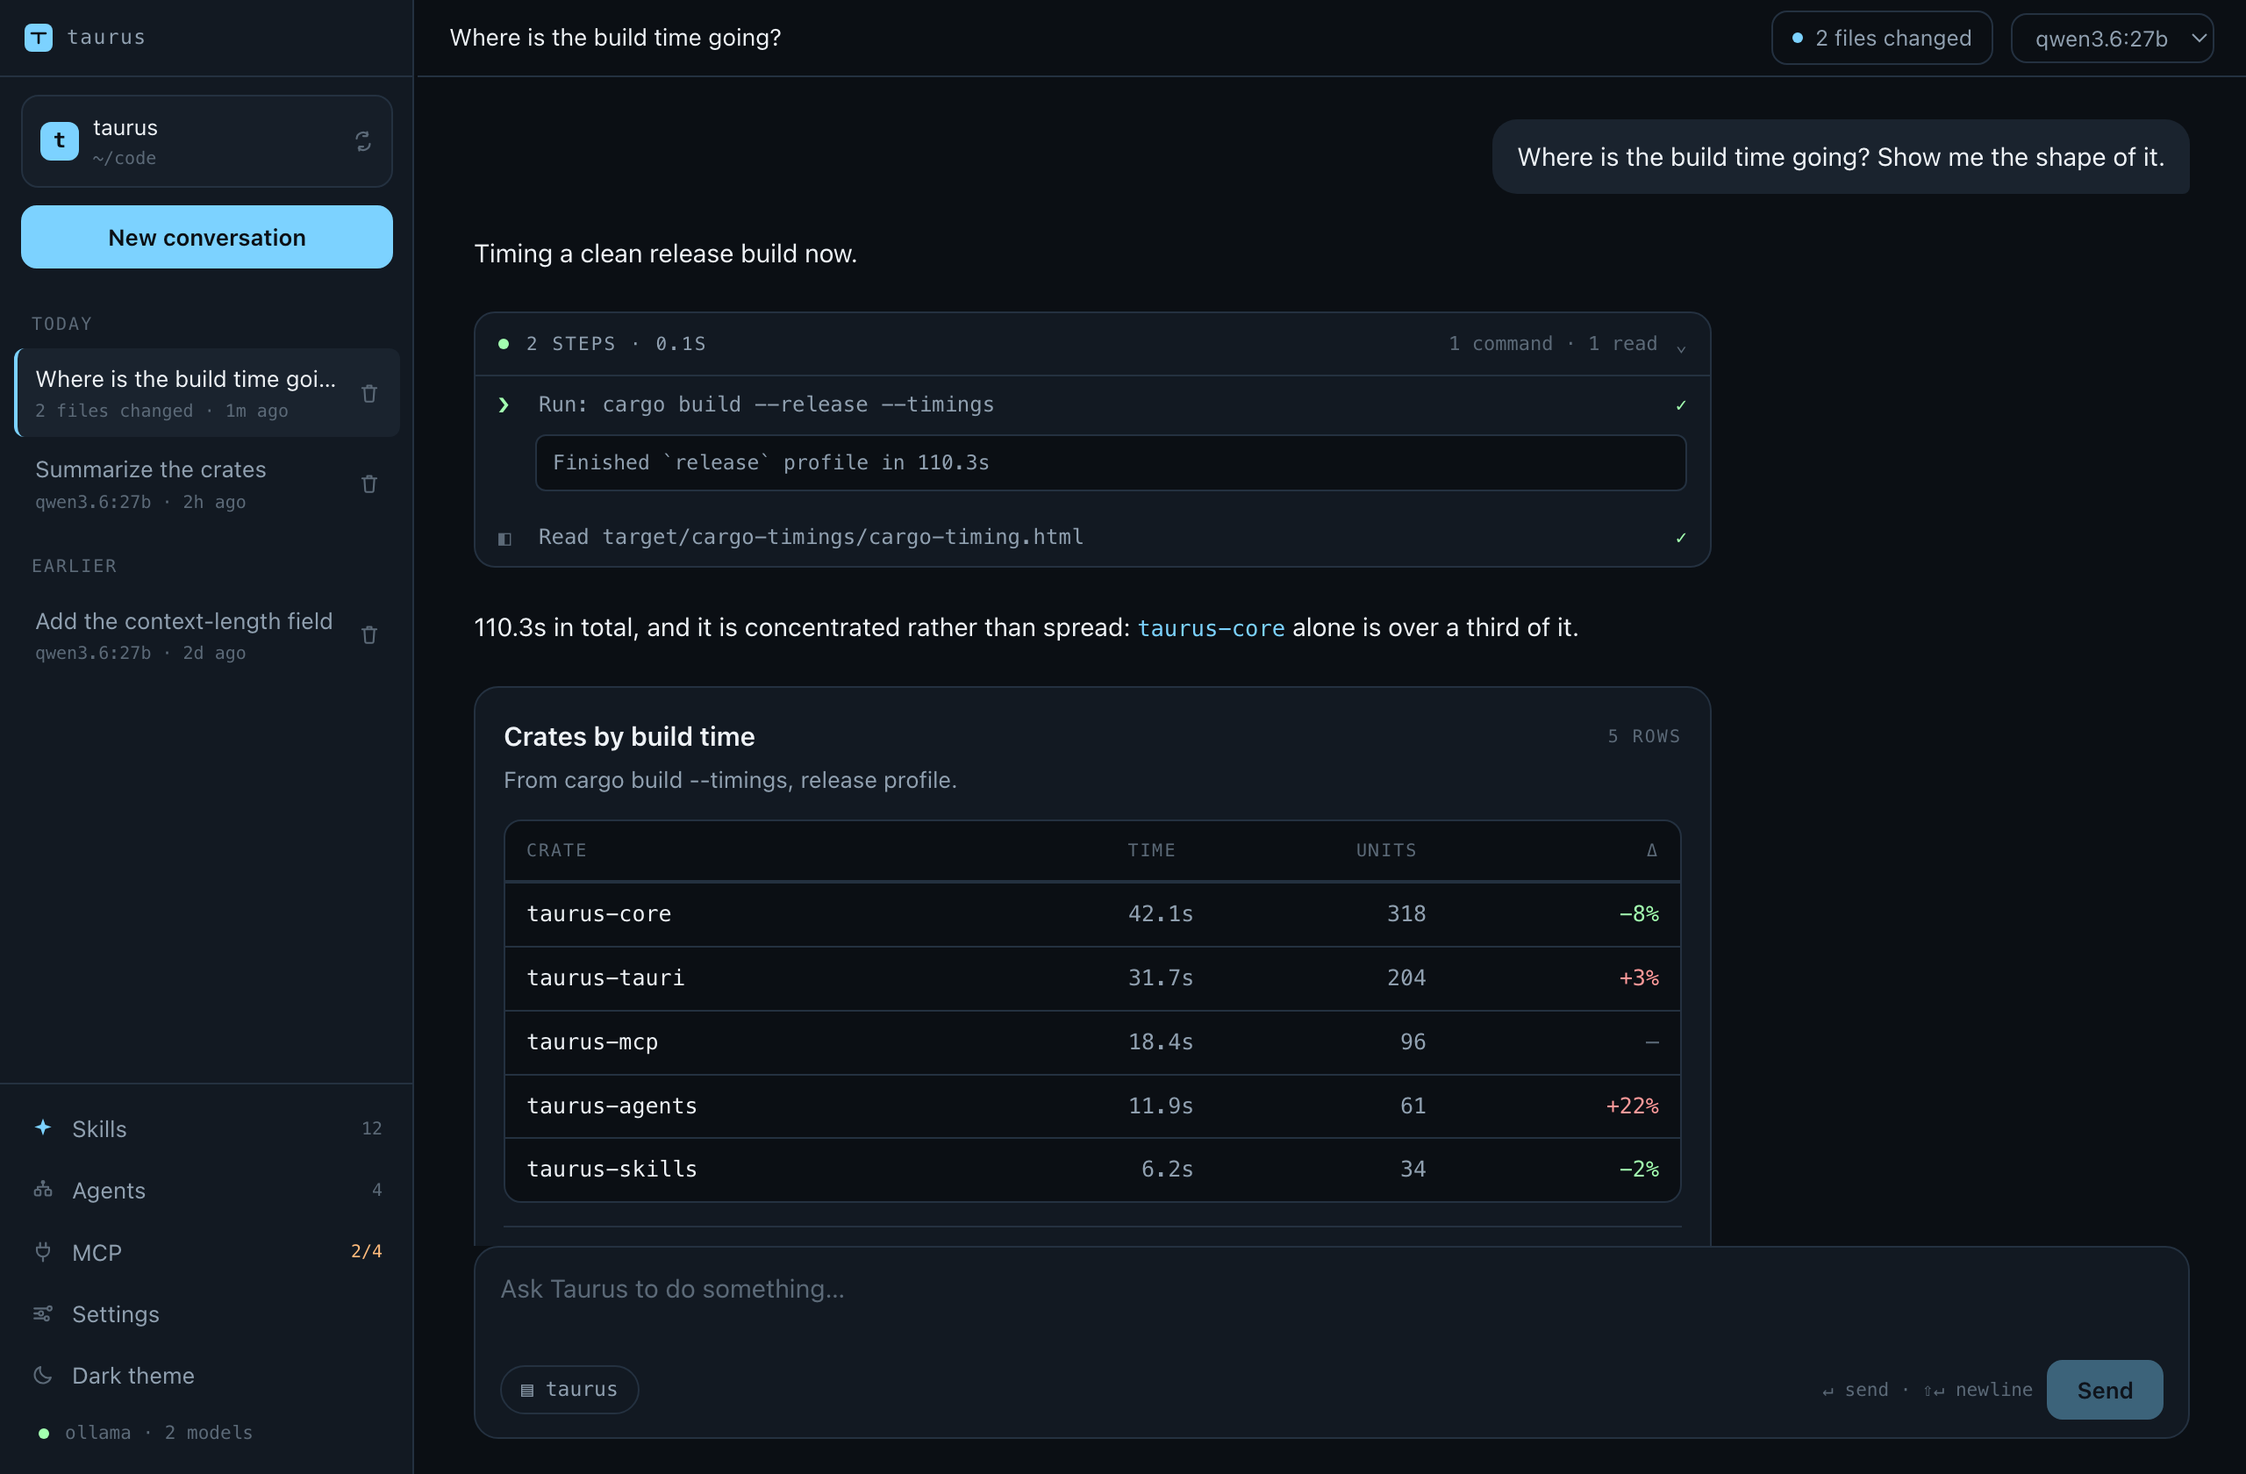
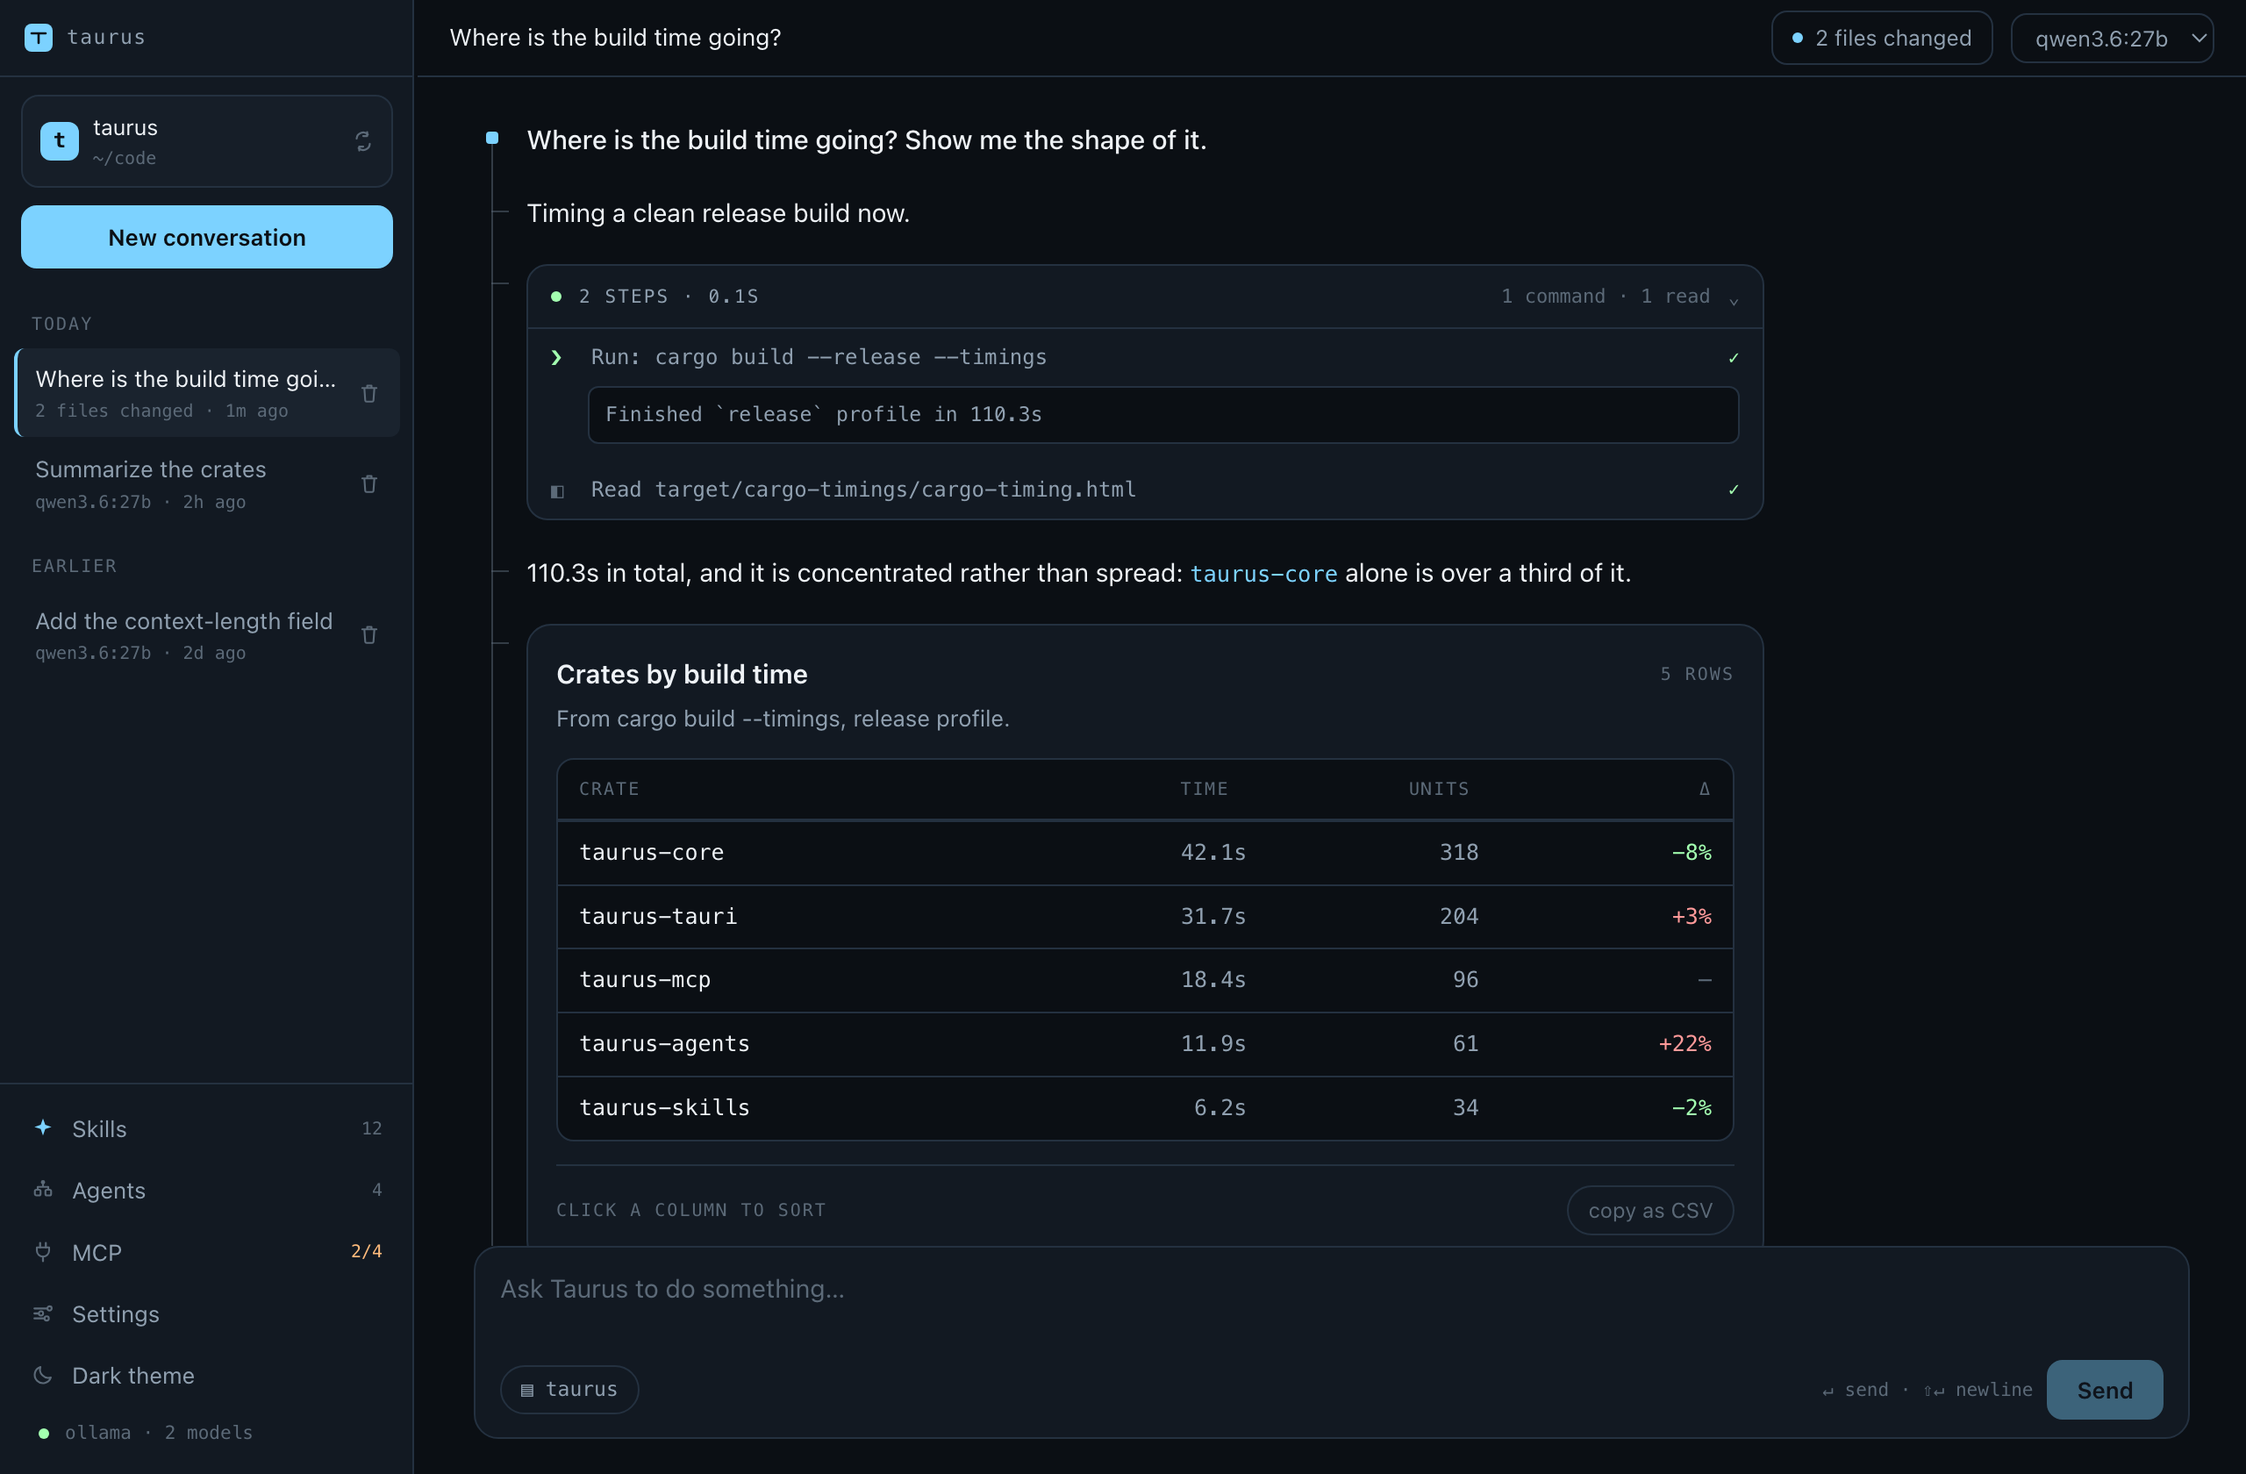
feat: thread a turn's steps onto one rail under the question
The question sat against the right margin and its answer against the
left, so the two halves of an exchange shared no edge and nothing
connected them — the eye had to cross the pane to pair a reply with what
had been asked. Everything below the question was flat besides: a
nine-step turn was ten siblings with equal claim on the page, and the
only way to find where one turn ended and the next began was to read for
it.

A turn is now the unit. `turns()` cuts the transcript on each question,
and the question heads a thread: one rail runs from its marker down past
everything it produced, with a segment tying each step to it. So the
answer is visibly the answer to *that*, a long turn stays one object
however many steps it took, and the shape of a conversation is legible
before any of it is read. Runs of tool calls are still folded — a run is
one step of the turn, and hangs one segment rather than one per call.

The question's marker is a node in the accent, the one colour nothing
else in the transcript uses, so a long conversation can be skimmed for
the places somebody asked something. Everything now shares one left edge
at one measure.

The thread gets its own token rather than borrowing `--rule`. `--rule`
marks where a surface ends and is read together with the edge it sits
on; this is a hairline across open background with nothing beside it to
give it away, and at `--rule` it disappeared on the light theme
[…]

diff --git a/src/components/Transcript.tsx b/src/components/Transcript.tsx
@@ -101,17 +101,118 @@ export function Transcript({
     );
   }
 
+  const conversation = turns(entries);
+
   return (
     <div className="transcript" ref={container}>
-      {group(entries).map((item) =>
+      {conversation.map((turn, i) => (
+        <TurnView
+          key={turn.prompt?.id ?? `preamble-${i}`}
+          turn={turn}
+          // Only ever the last one: the thing still being worked on is the
+          // question most recently asked, and the marker belongs on its rail
+          // rather than floating under the conversation as a whole.
+          working={busy && i === conversation.length - 1}
+          onAnswer={onAnswer}
+        />
+      ))}
+      <div ref={bottom} />
+    </div>
+  );
+}
+
+type UserEntry = Extract<Entry, { kind: "user" }>;
+
+/** One question and everything it caused, in the order it happened. */
+export type Turn = {
+  /**
+   * The message that began it.
+   *
+   * Null only for a conversation's preamble — the note a session opens with
+   * when its model has no native tool calling arrives before anybody has asked
+   * anything, and a rail hanging off nothing would say it belonged to a
+   * question that was never put.
+   */
+  prompt: UserEntry | null;
+  body: (Entry | ToolEntry[])[];
+};
+
+/**
+ * Cuts the transcript into turns.
+ *
+ * The unit the eye needs is the exchange, not the entry. Drawn as one flat
+ * column, a question and the six things that answered it are seven siblings
+ * with equal claim on the page, and the only way to find where a turn began is
+ * to read for it. Grouped, the question heads its own answer and the rail down
+ * the side says how far it reaches.
+ */
+export function turns(entries: Entry[]): Turn[] {
+  const out: { prompt: UserEntry | null; body: Entry[] }[] = [];
+  for (const entry of entries) {
+    if (entry.kind === "user") {
+      out.push({ prompt: entry, body: [] });
+    } else {
+      if (out.length === 0) out.push({ prompt: null, body: [] });
+      out[out.length - 1].body.push(entry);
+    }
+  }
+  // Runs of tool calls are folded per turn rather than across the transcript.
+  // They could not have spanned two anyway — a user message ends whatever was
+  // running — and folding here keeps the two groupings from having to agree.
+  return out.map(({ prompt, body }) => ({ prompt, body: group(body) }));
+}
+
+/**
+ * A turn, drawn as a thread.
+ *
+ * Everything the turn produced hangs off one rail that starts at the question,
+ * so the answer is visibly the answer *to that* — and a long turn stays one
+ * object on the page however many steps it took. The alternative, and what this
+ * replaced, was the question pinned to the right margin and its answer to the
+ * left, sharing no edge and connected by nothing.
+ */
+function TurnView({
+  turn,
+  working,
+  onAnswer,
+}: {
+  turn: Turn;
+  working: boolean;
+  onAnswer: (id: string, answers: Answer[]) => void;
+}) {
+  return (
+    <section className={`turn${turn.prompt ? "" : " unprompted"}`}>
+      {turn.prompt && <Prompt entry={turn.prompt} />}
+      {turn.body.map((item) =>
         Array.isArray(item) ? (
-          <ToolRun key={item[0].id} steps={item} />
+          <div className="turn-step" key={item[0].id}>
+            <ToolRun steps={item} />
+          </div>
         ) : (
-          <EntryView key={item.id} entry={item} onAnswer={onAnswer} />
+          <div className="turn-step" key={item.id}>
+            <EntryView entry={item} onAnswer={onAnswer} />
+          </div>
         ),
       )}
-      {busy && <div className="working">working…</div>}
-      <div ref={bottom} />
+      {working && (
+        <div className="turn-step working" aria-live="polite">
+          working…
+        </div>
+      )}
+    </section>
+  );
+}
+
+/** The question, at the head of the thread that answers it. */
+function Prompt({ entry }: { entry: UserEntry }) {
+  return (
+    <div className="turn-step prompt">
+      {/* Above the text, matching the order they were sent in and the order
+          the model reads them: the picture, then the question. */}
+      {entry.images && entry.images.length > 0 && (
+        <Attachments images={entry.images} />
+      )}
+      <div className="prompt-text">{entry.text}</div>
     </div>
   );
 }
@@ -176,16 +277,9 @@ function EntryView({
 
   switch (entry.kind) {
     case "user":
-      return (
-        <div className="entry user">
-          {/* Above the bubble, matching the order they were sent in and the
-              order the model reads them: the picture, then the question. */}
-          {entry.images && entry.images.length > 0 && (
-            <Attachments images={entry.images} />
-          )}
-          <div className="bubble">{entry.text}</div>
-        </div>
-      );
+      // Reached only if a caller renders an entry outside `turns`, which is
+      // what heads each thread with its own question.
+      return <Prompt entry={entry} />;
 
     case "assistant":
       return (

diff --git a/src/styles.css b/src/styles.css
@@ -76,6 +76,19 @@
      mark where a surface ends. */
   --border: var(--lk-line);
   --rule: var(--lk-line);
+  /*
+   * The transcript's thread — the rail down a turn and the segments tying its
+   * steps to it. A step up from --rule, and the one place that needs to be:
+   * --rule marks where a surface ends and is read *with* the edge it sits on,
+   * while this is a line across open background with nothing beside it to give
+   * it away. At the hairline weight it has to carry itself, and at --rule it
+   * disappeared on the light theme entirely.
+   *
+   * Mixed toward transparent rather than named per palette, so it composites
+   * against whichever background is behind it and stays the same relative
+   * weight under both.
+   */
+  --thread: color-mix(in srgb, var(--text-faint) 50%, transparent);
 
   --text: var(--lk-text);
   --text-dim: var(--lk-text-dim);
@@ -813,7 +826,9 @@ body.resizing * {
   padding: 24px 32px 8px;
   display: flex;
   flex-direction: column;
-  gap: 22px;
+  /* Wider than the gap between the steps inside a turn, which is what makes
+     one exchange read as one object rather than as a run of siblings. */
+  gap: 34px;
 }
 /*
  * Entries keep their size; the column scrolls.
@@ -896,16 +911,94 @@ body.resizing * {
   color: var(--text-faint);
 }
 
-.entry.user {
+/* ------------------------------------------------------------------ a turn */
+
+/*
+ * One question and everything it caused, threaded.
+ *
+ * The question used to sit against the right margin and its answer against the
+ * left, which meant the two halves of an exchange shared no edge, nothing said
+ * where one turn ended and the next began, and a nine-step turn was ten
+ * siblings with equal claim on the page. Here a single rail runs from the
+ * question down past everything it produced, and each step is tied to it by a
+ * segment — so the shape of a turn is legible without reading it, and the
+ * answer is visibly the answer to *that* question.
+ *
+ * The geometry is two numbers, declared once: how wide the marker column is,
+ * and where the rail sits inside it. Every marker below is positioned off those
+ * two, so the rail and the segments that meet it cannot drift apart.
+ */
+.turn {
+  --gutter: 30px;
+  --rail: 10px;
+
+  position: relative;
   display: flex;
-  justify-content: flex-end;
+  flex-direction: column;
+  gap: 18px;
+  padding-left: var(--gutter);
+  /* The measure is the content's, not the column's, so the reading width is
+     the same as it was before the gutter existed. */
+  max-width: calc(80ch + var(--gutter));
 }
-.entry.user .bubble {
-  background: var(--bg-active);
-  border-radius: var(--r-xl) var(--r-xl) 4px var(--r-xl);
-  padding: 10px 14px;
-  max-width: 70%;
-  font-size: 14.5px;
+/*
+ * The rail.
+ *
+ * Starts on the question's own marker rather than at the top of the box, so the
+ * thread visibly begins at the thing that began it. It runs to the foot of the
+ * last step: a turn ending in a tall card gets a bracket down its side, which
+ * is the right reading — the card is part of that answer.
+ */
+.turn::before {
+  content: "";
+  position: absolute;
+  left: var(--rail);
+  top: 0.75em;
+  bottom: 0;
+  width: 1px;
+  background: var(--thread);
+}
+/* Nothing began it, so there is no thread to draw. */
+.turn.unprompted {
+  padding-left: 0;
+}
+.turn.unprompted::before {
+  content: none;
+}
+
+.turn-step {
+  position: relative;
+}
+/* The segment tying one step to the rail. */
+.turn-step::before {
+  content: "";
+  position: absolute;
+  left: calc(var(--rail) - var(--gutter));
+  top: 0.75em;
+  width: calc(var(--gutter) - var(--rail) - 10px);
+  height: 1px;
+  background: var(--thread);
+}
+
+/*
+ * The question, which is where the turn starts and what it is scanned for. A
+ * node rather than a segment, in the one colour nothing else in the transcript
+ * uses, so a long conversation can be skimmed for the places somebody asked
+ * something.
+ */
+.turn-step.prompt::before {
+  left: calc(var(--rail) - var(--gutter) - 3px);
+  top: calc(0.75em - 3.5px);
+  width: 7px;
+  height: 7px;
+  border-radius: 2px;
+  background: var(--accent);
+}
+.prompt-text {
+  font-size: 15px;
+  font-weight: 500;
+  line-height: 1.55;
+  color: var(--text);
   white-space: pre-wrap;
   overflow-wrap: anywhere;
 }
@@ -1983,11 +2076,10 @@ body.resizing * {
   opacity: 1;
 }
 
-/* In the transcript the strip sits above the bubble and shares its alignment,
+/* In the transcript the strip sits above the question and shares its left edge,
    so the picture and the question read as one message. */
-.entry.user .attachments {
-  justify-content: flex-end;
-  margin-bottom: 6px;
+.turn-step.prompt .attachments {
+  margin-bottom: 8px;
 }
 
 /* The skill menu sits inside the composer box and above the textarea, so it

diff --git a/src/components/Transcript.test.tsx b/src/components/Transcript.test.tsx
@@ -1,6 +1,6 @@
 import { describe, expect, it } from "vitest";
 
-import { breakdown, group, span } from "./Transcript";
+import { breakdown, group, span, turns } from "./Transcript";
 import type { Entry } from "../state/store";
 
 type ToolEntry = Extract<Entry, { kind: "tool" }>;
@@ -178,5 +178,67 @@ describe("how long a run took", () => {
     expect(
       span([tool("t1", "grep"), tool("t2", "edit_file", { startedAt: 5, endedAt: 9 })]),
     ).toBeNull();
+  });
+});
+
+const ask = (id: string, text: string): Entry => ({ kind: "user", id, text });
+
+describe("cutting the transcript into turns", () => {
+  it("heads each turn with the question that began it", () => {
+    const [first, second] = turns([
+      ask("u1", "why is it slow?"),
+      say("a1", "Timing it."),
+      ask("u2", "and now?"),
+      say("a2", "Better."),
+    ]);
+    expect(first.prompt?.id).toBe("u1");
+    expect(first.body).toEqual([expect.objectContaining({ id: "a1" })]);
+    expect(second.prompt?.id).toBe("u2");
+    expect(second.body).toEqual([expect.objectContaining({ id: "a2" })]);
+  });
+
+  it("folds a turn's tool calls into runs, as the flat list did", () => {
+    // The two groupings have to agree: a run is still a run inside a turn, and
+    // the rail hangs one segment off it rather than one per call.
+    const [turn] = turns([
+      ask("u1", "build it"),
+      tool("t1", "grep"),
+      tool("t2", "read_file"),
+      say("a1", "Done."),
+    ]);
+    expect(turn.body).toHaveLength(2);
+    expect(turn.body[0]).toEqual([
+      expect.objectContaining({ id: "t1" }),
+      expect.objectContaining({ id: "t2" }),
+    ]);
+  });
+
+  it("does not carry a run across the question that interrupted it", () => {
+    const [first, second] = turns([
+      ask("u1", "one"),
+      tool("t1", "grep"),
+      ask("u2", "two"),
+      tool("t2", "grep"),
+    ]);
+    expect(first.body).toEqual([[expect.objectContaining({ id: "t1" })]]);
+    expect(second.body).toEqual([[expect.objectContaining({ id: "t2" })]]);
+  });
+
+  it("puts what precedes the first question in a turn with no question", () => {
+    // The note a session opens with when its model has no native tool calling.
+    // A thread hanging off nothing would say it belonged to something nobody
+    // asked, so this turn draws no rail — see `.turn.unprompted`.
+    const [preamble, asked] = turns([
+      { kind: "notice", id: "n1", tone: "info", text: "prompted tools" },
+      ask("u1", "go"),
+      say("a1", "ok"),
+    ]);
+    expect(preamble.prompt).toBeNull();
+    expect(preamble.body).toEqual([expect.objectContaining({ id: "n1" })]);
+    expect(asked.prompt?.id).toBe("u1");
+  });
+
+  it("has nothing to draw for an empty conversation", () => {
+    expect(turns([])).toEqual([]);
   });
 });
